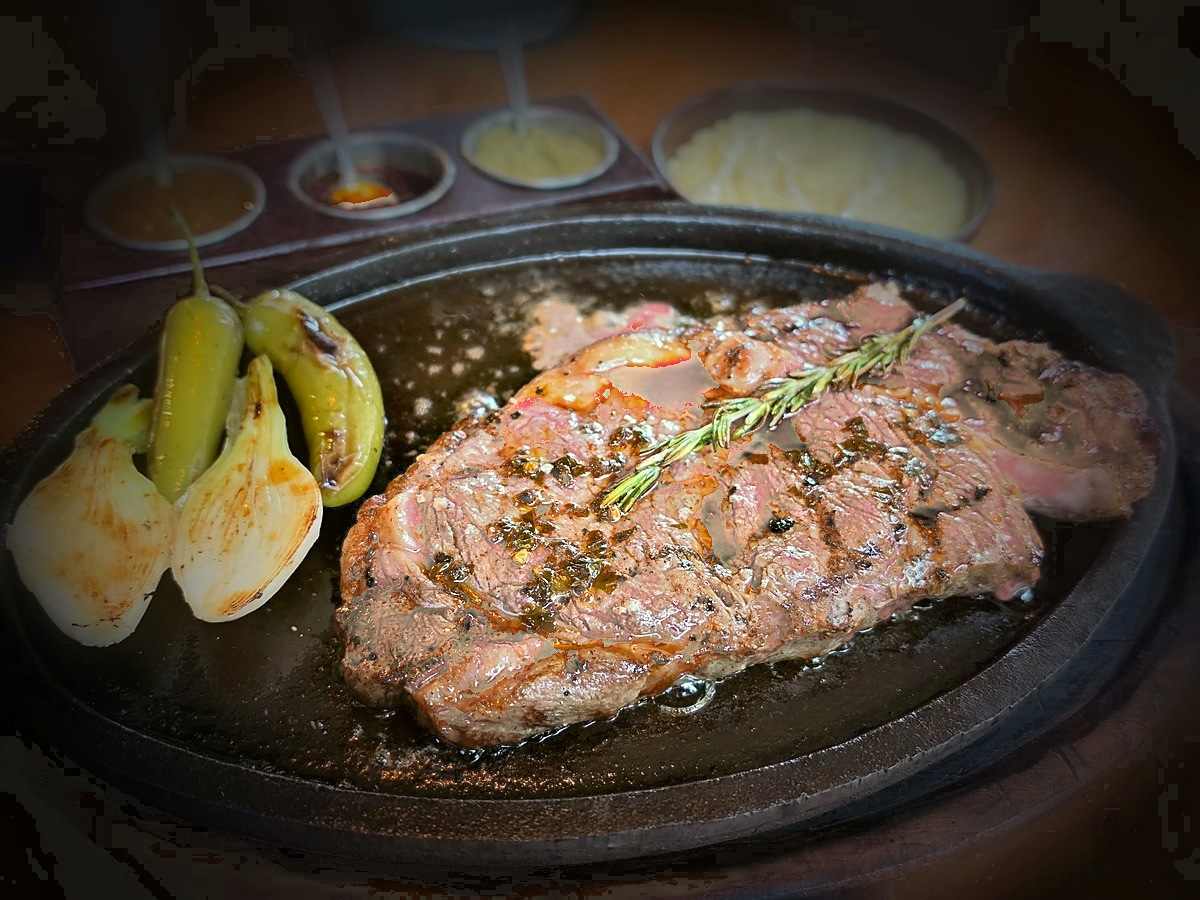
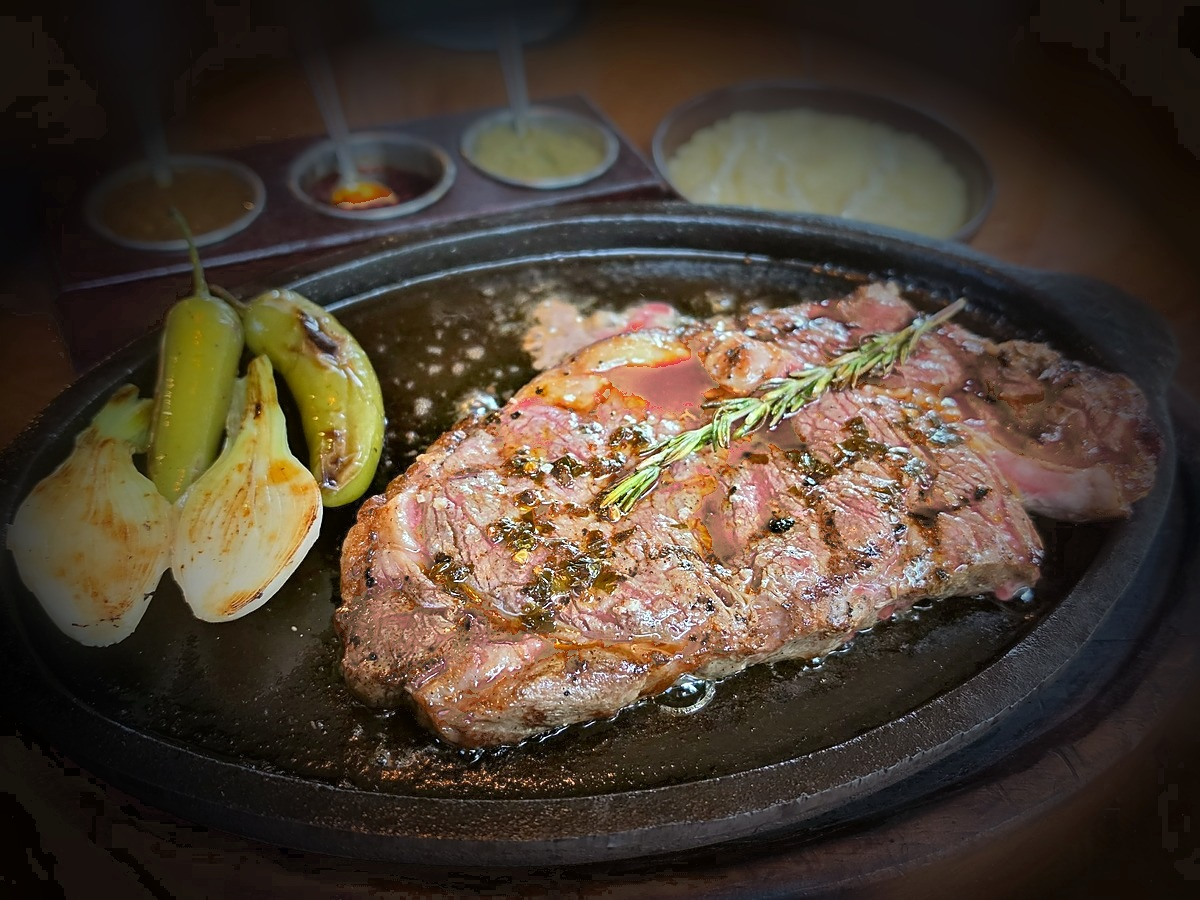
Rib eye: nivel 3 de mioglobina, el que eligio Arturo
Menos agresivo que el anterior: quita el jugo encharcado pero le deja
el rosa vivo a la carne. Mismo archivo en el Ojo de Rib Eye publicado
y en la copia de _para-enero.

Claude-Session: https://claude.ai/code/session_01267DXcQMBVnpnCevQeSi3R

diff --git a/index.html b/index.html
@@ -549,7 +549,7 @@ body.sin-scroll{overflow:hidden}
 
 /* Sube este número cada vez que reemplaces una foto. Obliga a los
    navegadores a pedirla de nuevo en vez de usar la que tenían guardada. */
-const VER = "55";
+const VER = "56";
 
 const CONFIG = {
   // Deja "" en lo que todavía no tengas: el botón simplemente no aparece.
